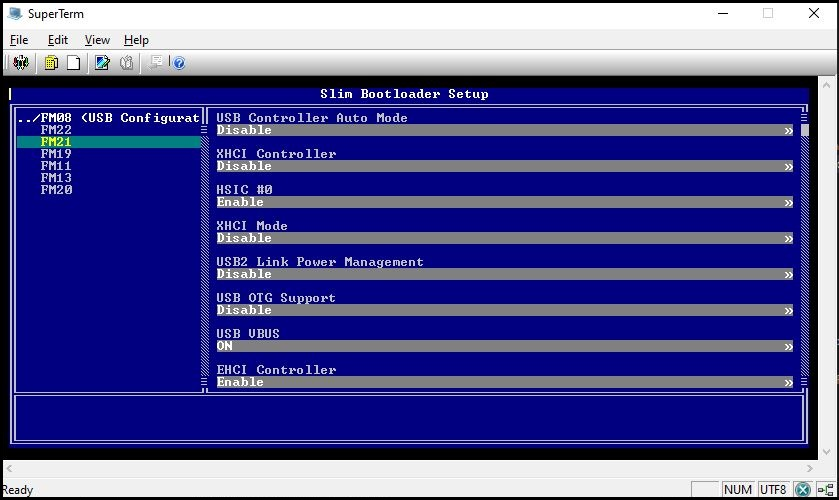
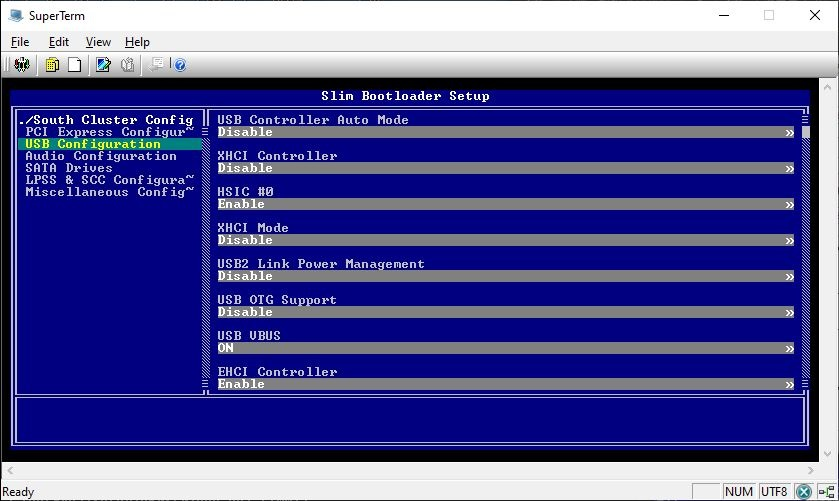
Clean up the source tree structure

Changed region(s): [[0.0, 0.0, 1.0, 1.0]]

diff --git a/Tools/SblSetup.py b/Tools/SblSetup.py
@@ -572,7 +572,7 @@ class Window:
           disp = disp [:-1] + ch
         self.write (disp)
 
-    def draw_list(self, rc, lines, select = 0, start = 0):
+    def draw_list(self, rc, lines, select = 0, start = 0, padding = ' '):
         nlen = len(lines)
         if start >= nlen:
             start = rc.h - nlen
@@ -581,10 +581,13 @@ class Window:
         if select   >= nlen:
             select   = nlen - 1
         curr = 0
-        fmt = ' %%-%ds ' % (rc.w - 2)
+        fmt = '%%-%ds ' % (rc.w - 1)
         for line in lines[start:]:
             self.set_pos(rc.x, rc.y + curr)
-            text = fmt % line[:rc.w]
+            if len(line) < rc.w:
+                text = fmt % line
+            else:
+                text = fmt % (line[:rc.w - 2] + '~')
             if select == start + curr:
                 old_color = self.set_color (self.sel_fore_color, self.sel_back_color)
                 self.write (text)
@@ -942,6 +945,10 @@ class ListBox (BaseWidget):
         self.option_start = 0
         self.client_rc = Rect(self.rc)
         self.client_rc.inflate (-1)
+        self.left_padding = ' '
+
+    def set_padding(self, padding):
+        self.left_padding = padding
 
     def clear(self):
         self.options.clear()
@@ -1011,7 +1018,7 @@ class ListBox (BaseWidget):
             old_sel_color = self.window.set_sel_color (TERM.COLOR_FOCUS[0], TERM.COLOR_FOCUS[1])
         else:
             old_sel_color = self.window.set_sel_color (TERM.COLOR_TEXT[0], TERM.COLOR_TEXT[1])
-        self.window.draw_list (self.client_rc, self.options, self.get_select(), self.option_start)
+        self.window.draw_list (self.client_rc, self.options, self.get_select(), self.option_start, self.left_padding)
 
         count = len(self.options)
         if count > self.client_rc.h:
@@ -1689,7 +1696,16 @@ class Pages:
         self.page_tree = cfg_tree['_cfg_page']
         self.page_list = {}
         self.curr_page = ''
+        #self.show_page_id = True
+        self.show_page_id = False
         self.widget = None
+
+    def get_page_id_list (self, id = 'root'):
+        page_list = []
+        tree = self.find_page_id (id)
+        for each in tree[id]['child']:
+            page_list.append(next(iter(each)))
+        return page_list
 
     def get_page_list (self, id = 'root'):
         page_list = []
@@ -1697,10 +1713,14 @@ class Pages:
         for each in tree[id]['child']:
             page_id = next(iter(each))
             if len(each[page_id]['child']) > 0:
-                prefix = '+ '
+                prefix = '+'
             else:
-                prefix = '  '
-            page_list.append(prefix + page_id)
+                prefix = ' '
+            if self.show_page_id:
+                text = page_id
+            else:
+                text = each[page_id]['title']
+            page_list.append(prefix + text)
         return page_list
 
     def get_cfg_list (self, page_id = None):
@@ -1955,7 +1975,7 @@ def recheck_condition (visible_widgets, pages):
     if not pages.curr_page:
         return False
 
-    page_id = pages.get_widget().get_select_text()[2:]
+    page_id = pages.get_widget().get_select_text()[1:]
     page_cfg_list = pages.get_cfg_list(page_id)
     full_cfg_list = pages.get_cfg_list()
 
@@ -2142,6 +2162,7 @@ def main():
     # add pages
     title_rc = Rect(rc)
     title_rc.inflate (-1)
+    title_rc.w -= 1
     page_title = Label (scr, title_rc, 'page_title')
     page_title.set_text('/')
     page_title.set_color (TERM.COLOR_TEXT[0])
@@ -2151,6 +2172,7 @@ def main():
     pages = Pages(cfg_tree)
     rc.adjust (0, 1, 0, -1)
     page_tree = ListBox (scr, rc, 'page_tree')
+    page_tree.set_padding ('')
     pages.set_widget (page_tree)
     page_list = pages.get_page_list(page_id)
     pages.set_active_page (page_id)
@@ -2305,7 +2327,13 @@ def main_loop (scr_win, cfg_win, pages):
             if ret == 1 :
                 # enter child pages
                 # update the path at top
-                page_id   = page_tree.get_select_text()[2:]
+                if pages.show_page_id:
+                    page_id      = page_tree.get_select_text()[1:]
+                else:
+                    sel_idx      = page_tree.get_select()
+                    page_id_list = pages.get_page_id_list (pages.curr_page)
+                    page_id      = page_id_list[sel_idx]
+
                 page_list = pages.get_page_list(page_id)
                 if len(page_list) > 0:
                     select    = widgets[curr_focus].get_select()
@@ -2338,11 +2366,21 @@ def main_loop (scr_win, cfg_win, pages):
 
                 # select changed
                 text     = widgets[curr_focus].get_select_text ()
-                page_id  = text[2:]
-                page_txt = '/' if pages.curr_page == 'root' else '../' + pages.curr_page
-                text = pages.get_page_title (page_id)
-                if text:
-                    page_txt = page_txt + ' (%s)' % text
+
+                if not pages.show_page_id:
+                    sel_idx      = page_tree.get_select()
+                    page_id_list = pages.get_page_id_list (pages.curr_page)
+                    page_id      = page_id_list[sel_idx]
+                    page_txt     = '/' if pages.curr_page == 'root' else './' + pages.get_page_title(pages.curr_page)
+                else:
+                    page_id      = text[1:]
+                    page_txt     = '/' if pages.curr_page == 'root' else './' + pages.curr_page
+
+                    # update top node text
+                    text = pages.get_page_title (page_id)
+                    if text:
+                        page_txt = page_txt + ' (%s)' % text
+
                 page_title.set_text(page_txt)
                 rebuild_page = True
 

diff --git a/README.md b/README.md
@@ -1,42 +1,26 @@
 # Python Setup Browser for UEFI VFR
 
-Demonstrate how to convert UEFI VFR setup into YAML format and browse on target or host.
+Demonstrate how to convert UEFI VFR setup into YAML format and browse setup options on target or host.
 
 # Steps:
-- Run edksetup.bat
+- Prepare required EDK2 build environment.
+  Please adjust the TOOLCHAIN parameter accordingly in mk.cmd if required.
 
-- Set PYTHON_HOME path to python3 dir path
+- Run "mk build" to generate HPK and combined VFR files.
 
-  set PYTHON_HOME=C:\Python3
+- Run "mk setup" to generate Setup YAML files
 
-- Rebuid EDK2 BaseTools
+- Run "mk run" to start setup browser GUI from host
 
-  cd BaseTools
+  ![Setup on target](Docs/SetupHost.JPG)
 
-  toolsetup.bat forcerebuild
+- Or run "mk mpy" to start setup browser TEXT terminal from host
 
-  cd ..
-
-- Generate HPK and combined VFR files through EDK2 build
-
-  build -p PayloadPkg\PayloadPkg.dsc -a IA32 -t VS2017
-
-- Generate Setup YAML files
-  mk.cmd
-
-- Run setup broswer:
-
-  On Target system, the setup browser can be launched through MicroPython environment.
-
-    python Tools\SblSetup.py Build\Setup.json Build\Setup.yaml
+  Please follow instructions in mk.cmd to setup connection with PuTTY or other tools supporting named pipe terminal.
 
   ![Setup on target](Docs/SetupTarget.JPG)
 
-  On Host system, the setup browser can be launched using stardard ConfigEditor GUI.
 
-   python Tools\ConfigEditor.py
-   then, load  Build\Setup.pkl file.
 
-  ![Setup on target](Docs/SetupHost.JPG)
 
 
